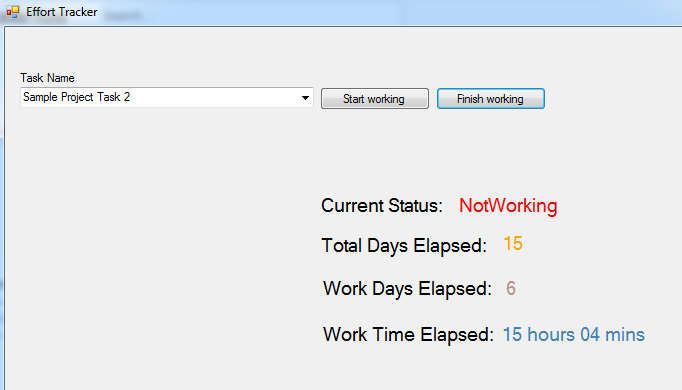
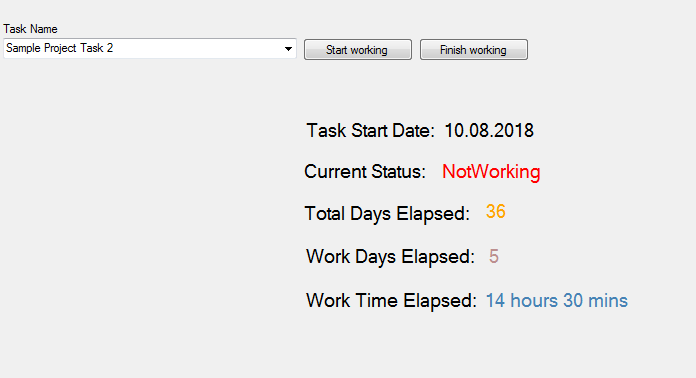
Task start date added.

diff --git a/EffortTracker/EffortTrackerForm.Designer.cs b/EffortTracker/EffortTrackerForm.Designer.cs
@@ -40,6 +40,8 @@
             this.lbl_time = new System.Windows.Forms.Label();
             this.lbl_work_days_title = new System.Windows.Forms.Label();
             this.lbl_work_days = new System.Windows.Forms.Label();
+            this.lbl_task_start_date_title = new System.Windows.Forms.Label();
+            this.lbl_task_start_date = new System.Windows.Forms.Label();
             this.SuspendLayout();
             // 
             // lbl_task_name_title
@@ -84,7 +86,7 @@
             // 
             this.lbl_status_title.AutoSize = true;
             this.lbl_status_title.Font = new System.Drawing.Font("Microsoft Sans Serif", 14.25F, System.Drawing.FontStyle.Regular, System.Drawing.GraphicsUnit.Point, ((byte)(0)));
-            this.lbl_status_title.Location = new System.Drawing.Point(312, 166);
+            this.lbl_status_title.Location = new System.Drawing.Point(312, 181);
             this.lbl_status_title.Name = "lbl_status_title";
             this.lbl_status_title.Size = new System.Drawing.Size(132, 24);
             this.lbl_status_title.TabIndex = 4;
@@ -95,7 +97,7 @@
             this.lbl_status.AutoSize = true;
             this.lbl_status.Font = new System.Drawing.Font("Microsoft Sans Serif", 14.25F, System.Drawing.FontStyle.Regular, System.Drawing.GraphicsUnit.Point, ((byte)(0)));
             this.lbl_status.ForeColor = System.Drawing.Color.Red;
-            this.lbl_status.Location = new System.Drawing.Point(450, 166);
+            this.lbl_status.Location = new System.Drawing.Point(450, 181);
             this.lbl_status.Name = "lbl_status";
             this.lbl_status.Size = new System.Drawing.Size(109, 24);
             this.lbl_status.TabIndex = 5;
@@ -105,7 +107,7 @@
             // 
             this.lbl_days_title.AutoSize = true;
             this.lbl_days_title.Font = new System.Drawing.Font("Microsoft Sans Serif", 14.25F, System.Drawing.FontStyle.Regular, System.Drawing.GraphicsUnit.Point, ((byte)(0)));
-            this.lbl_days_title.Location = new System.Drawing.Point(312, 206);
+            this.lbl_days_title.Location = new System.Drawing.Point(312, 223);
             this.lbl_days_title.Name = "lbl_days_title";
             this.lbl_days_title.Size = new System.Drawing.Size(176, 24);
             this.lbl_days_title.TabIndex = 6;
@@ -115,7 +117,7 @@
             // 
             this.lbl_mins_title.AutoSize = true;
             this.lbl_mins_title.Font = new System.Drawing.Font("Microsoft Sans Serif", 14.25F, System.Drawing.FontStyle.Regular, System.Drawing.GraphicsUnit.Point, ((byte)(0)));
-            this.lbl_mins_title.Location = new System.Drawing.Point(314, 295);
+            this.lbl_mins_title.Location = new System.Drawing.Point(314, 310);
             this.lbl_mins_title.Name = "lbl_mins_title";
             this.lbl_mins_title.Size = new System.Drawing.Size(181, 24);
             this.lbl_mins_title.TabIndex = 7;
@@ -126,7 +128,7 @@
             this.lbl_days.AutoSize = true;
             this.lbl_days.Font = new System.Drawing.Font("Microsoft Sans Serif", 14.25F, System.Drawing.FontStyle.Regular, System.Drawing.GraphicsUnit.Point, ((byte)(0)));
             this.lbl_days.ForeColor = System.Drawing.Color.Orange;
-            this.lbl_days.Location = new System.Drawing.Point(494, 204);
+            this.lbl_days.Location = new System.Drawing.Point(494, 221);
             this.lbl_days.Name = "lbl_days";
             this.lbl_days.Size = new System.Drawing.Size(20, 24);
             this.lbl_days.TabIndex = 8;
@@ -137,7 +139,7 @@
             this.lbl_time.AutoSize = true;
             this.lbl_time.Font = new System.Drawing.Font("Microsoft Sans Serif", 14.25F, System.Drawing.FontStyle.Regular, System.Drawing.GraphicsUnit.Point, ((byte)(0)));
             this.lbl_time.ForeColor = System.Drawing.Color.SteelBlue;
-            this.lbl_time.Location = new System.Drawing.Point(493, 295);
+            this.lbl_time.Location = new System.Drawing.Point(493, 310);
             this.lbl_time.Name = "lbl_time";
             this.lbl_time.Size = new System.Drawing.Size(20, 24);
             this.lbl_time.TabIndex = 9;
@@ -147,7 +149,7 @@
             // 
             this.lbl_work_days_title.AutoSize = true;
             this.lbl_work_days_title.Font = new System.Drawing.Font("Microsoft Sans Serif", 14.25F, System.Drawing.FontStyle.Regular, System.Drawing.GraphicsUnit.Point, ((byte)(0)));
-            this.lbl_work_days_title.Location = new System.Drawing.Point(314, 249);
+            this.lbl_work_days_title.Location = new System.Drawing.Point(314, 266);
             this.lbl_work_days_title.Name = "lbl_work_days_title";
             this.lbl_work_days_title.Size = new System.Drawing.Size(179, 24);
             this.lbl_work_days_title.TabIndex = 10;
@@ -158,17 +160,40 @@
             this.lbl_work_days.AutoSize = true;
             this.lbl_work_days.Font = new System.Drawing.Font("Microsoft Sans Serif", 14.25F, System.Drawing.FontStyle.Regular, System.Drawing.GraphicsUnit.Point, ((byte)(0)));
             this.lbl_work_days.ForeColor = System.Drawing.Color.RosyBrown;
-            this.lbl_work_days.Location = new System.Drawing.Point(497, 249);
+            this.lbl_work_days.Location = new System.Drawing.Point(497, 266);
             this.lbl_work_days.Name = "lbl_work_days";
             this.lbl_work_days.Size = new System.Drawing.Size(20, 24);
             this.lbl_work_days.TabIndex = 11;
             this.lbl_work_days.Text = "0";
+            // 
+            // lbl_task_start_date_title
+            // 
+            this.lbl_task_start_date_title.AutoSize = true;
+            this.lbl_task_start_date_title.Font = new System.Drawing.Font("Microsoft Sans Serif", 14.25F, System.Drawing.FontStyle.Regular, System.Drawing.GraphicsUnit.Point, ((byte)(0)));
+            this.lbl_task_start_date_title.Location = new System.Drawing.Point(314, 140);
+            this.lbl_task_start_date_title.Name = "lbl_task_start_date_title";
+            this.lbl_task_start_date_title.Size = new System.Drawing.Size(139, 24);
+            this.lbl_task_start_date_title.TabIndex = 12;
+            this.lbl_task_start_date_title.Text = "Task Start Date:";
+            // 
+            // lbl_task_start_date
+            // 
+            this.lbl_task_start_date.AutoSize = true;
+            this.lbl_task_start_date.Font = new System.Drawing.Font("Microsoft Sans Serif", 14.25F, System.Drawing.FontStyle.Regular, System.Drawing.GraphicsUnit.Point, ((byte)(0)));
+            this.lbl_task_start_date.ForeColor = System.Drawing.SystemColors.ControlText;
+            this.lbl_task_start_date.Location = new System.Drawing.Point(452, 140);
+            this.lbl_task_start_date.Name = "lbl_task_start_date";
+            this.lbl_task_start_date.Size = new System.Drawing.Size(100, 24);
+            this.lbl_task_start_date.TabIndex = 13;
+            this.lbl_task_start_date.Text = "01.01.1900";
             // 
             // EffortTrackerForm
             // 
             this.AutoScaleDimensions = new System.Drawing.SizeF(6F, 13F);
             this.AutoScaleMode = System.Windows.Forms.AutoScaleMode.Font;
             this.ClientSize = new System.Drawing.Size(800, 450);
+            this.Controls.Add(this.lbl_task_start_date);
+            this.Controls.Add(this.lbl_task_start_date_title);
             this.Controls.Add(this.lbl_work_days);
             this.Controls.Add(this.lbl_work_days_title);
             this.Controls.Add(this.lbl_time);
@@ -202,6 +227,8 @@
         private System.Windows.Forms.Label lbl_time;
         private System.Windows.Forms.Label lbl_work_days_title;
         private System.Windows.Forms.Label lbl_work_days;
+        private System.Windows.Forms.Label lbl_task_start_date_title;
+        private System.Windows.Forms.Label lbl_task_start_date;
     }
 }
 

diff --git a/EffortTracker/EffortTrackerForm.cs b/EffortTracker/EffortTrackerForm.cs
@@ -46,10 +46,10 @@ namespace EffortTracker
         {
             _selectedProjectTask = cmb_projects.SelectedItem as ProjectTask;
 
-            GetProjectStatistics();
+            GetTaskStatistics();
         }
 
-        private void GetProjectStatistics()
+        private void GetTaskStatistics()
         {
             if (_selectedProjectTask.Status == ProjectStatus.NotWorking)
             {
@@ -58,6 +58,7 @@ namespace EffortTracker
             else
                 lbl_status.ForeColor = System.Drawing.Color.ForestGreen;
 
+            lbl_task_start_date.Text = _selectedProjectTask.TaskStartDate;
             lbl_days.Text = _selectedProjectTask.TotalDaysElapsed.ToString();
             lbl_work_days.Text = _selectedProjectTask.WorkDaysElapsed.ToString();
             lbl_time.Text = GetTotalTimeElapsedText();
@@ -73,9 +74,9 @@ namespace EffortTracker
 
             _selectedProjectTask.Status = ProjectStatus.NotWorking;
 
-            UpdateProjectStatistics();
+            UpdateTaskStatistics();
 
-            GetProjectStatistics();
+            GetTaskStatistics();
 
             UpdateJsonFile();
 
@@ -118,7 +119,7 @@ namespace EffortTracker
 
             _selectedProjectTask.CurrentWorkStartDateTime = DateTime.UtcNow;
 
-            GetProjectStatistics();
+            GetTaskStatistics();
         }
 
         private string GetTotalTimeElapsedText()
@@ -134,7 +135,7 @@ namespace EffortTracker
             return $"{hourText} hours {minsText} mins";
         }
 
-        private void UpdateProjectStatistics()
+        private void UpdateTaskStatistics()
         {
             var lastWorkStartDate = _selectedProjectTask.LastWorkStartDateTime.ToDateTime();
             var currentWorkStartDate = _selectedProjectTask.CurrentWorkStartDateTime;
@@ -147,7 +148,6 @@ namespace EffortTracker
                 _selectedProjectTask.WorkDaysElapsed += 1;
             }
 
-            _selectedProjectTask.TotalDaysElapsed += tsDays;
             _selectedProjectTask.TotalMinsElapsed += tsMins;
 
             //update last work start date time

diff --git a/EffortTracker/ProjectTask.cs b/EffortTracker/ProjectTask.cs
@@ -16,7 +16,7 @@ namespace EffortTracker
 
         public string Name { get; set; }
 
-        public int TotalDaysElapsed { get; set; }
+        public string TaskStartDate { get; set; }
 
         public int TotalMinsElapsed { get; set; }
 
@@ -25,6 +25,9 @@ namespace EffortTracker
         public string LastWorkStartDateTime { get; set; }
 
         public ProjectStatus Status { get; set; }
+
+        [JsonIgnore]
+        public int TotalDaysElapsed => (DateTime.UtcNow - TaskStartDate.ToDate()).Days;
 
         [JsonIgnore]
         public DateTime CurrentWorkStartDateTime { get; set; }
